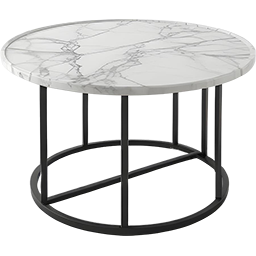
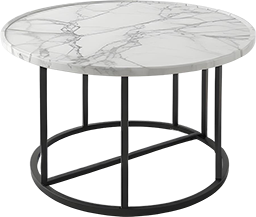
new

Changed region(s): [[0.0, 0.0, 1.0, 0.3871], [0.0938, 0.5253, 0.9062, 1.0], [0.75, 0.1659, 0.7812, 0.1935]]

diff --git a/frontend/src/routes/_home/tags.svelte b/frontend/src/routes/_home/tags.svelte
@@ -10,8 +10,10 @@
 		<div class="block">
 			{#each tags as tag, i}
 				<button onclick={() => page_state.goto('shop', { tag })}>
-					<img src="/image/item_{i + 1}.png" alt="" />
-					<div>
+					<div class="img">
+						<img src="/image/item_{i + 1}.png" alt="" />
+					</div>
+					<div class="details">
 						{tag}
 						<div class="shop">Shop Now</div>
 					</div>
@@ -39,11 +41,12 @@
 		}
 	}
 
-	.title{
+	.title {
 		font-size: 2rem;
 		font-weight: 600;
 		color: var(--ft1);
 	}
+
 	button {
 		all: unset;
 		cursor: pointer;
@@ -51,35 +54,49 @@
 		display: flex;
 		flex-direction: column;
 		align-items: center;
-		justify-content: space-between;
 
 		width: 100%;
 		aspect-ratio: 1;
 		border-radius: 10%;
-		padding: 16px;
 
 		background-color: var(--bg3);
 		text-decoration: none;
 		color: var(--ft2);
 
+		transition: background-color 0.2s ease-in-out;
+
 		&:hover {
 			background-color: var(--bg2);
 
-			& img {
-				width: 70%;
+			img{
+
+				transform: scale(1.05);
+			}
+		}
+		
+		.img {
+			width: 100%;
+			height: max-content;
+			aspect-ratio: 4/3;
+			padding: 16px;
+			padding-bottom: 0;
+			
+			img {
+				width: 100%;
+				height: 100%;
+				object-fit: contain;
+				transition: transform 0.2s ease-in-out;
 			}
 		}
 
-		& img {
-			width: 70%;
-			aspect-ratio: 1;
-			transition: width 0.2s ease-in-out;
-		}
-	}
+		.details {
+			padding: 16px;
 
-	.shop {
-		color: var(--cl1);
-		font-weight: 800;
-		font-size: 0.9rem;
+			.shop {
+				color: var(--cl1);
+				font-weight: 800;
+				font-size: 0.9rem;
+			}
+		}
 	}
 </style>

diff --git a/backend/application/fix.py b/backend/application/fix.py
@@ -8,6 +8,7 @@ from .tools import access_pass
 bp = Blueprint("fix", __name__)
 
 
+@bp.get("/fix")
 def quick_fix():
     con, cur = db_open()
 
@@ -27,7 +28,6 @@ def quick_fix():
     })
 
 
-@bp.get("/fix")
 def fix_access():
     con, cur = db_open()
 
